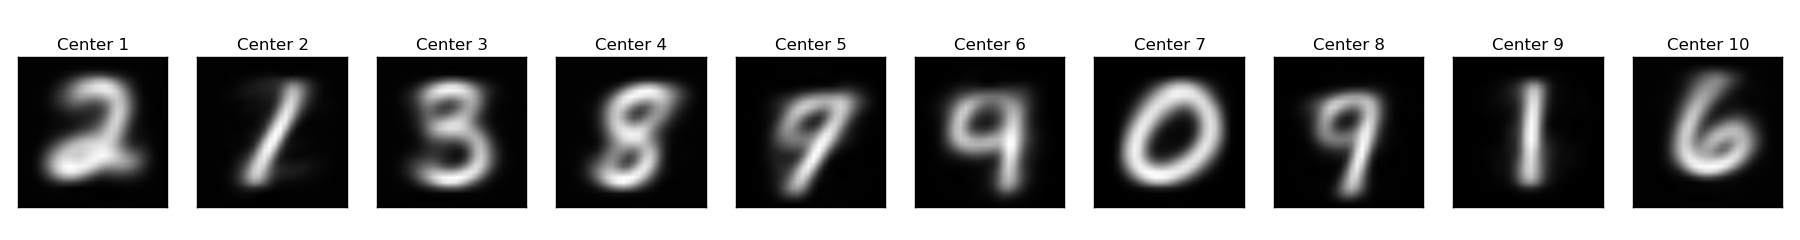
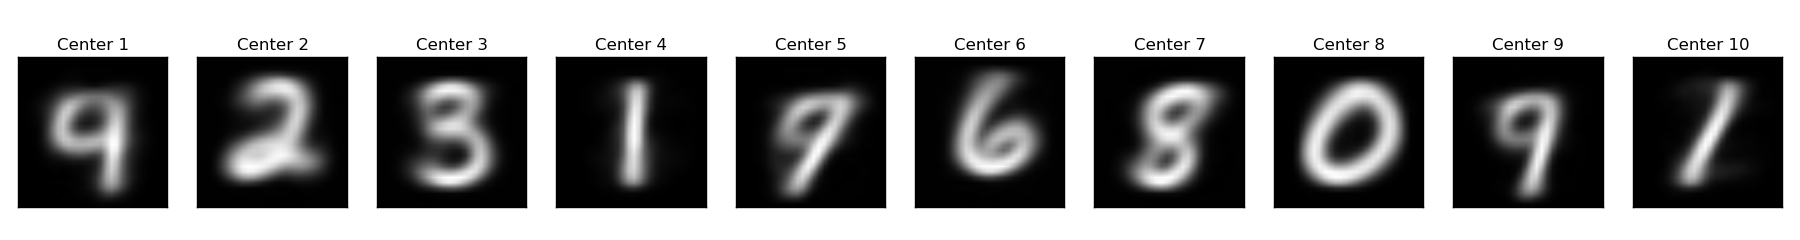
chore: simplify the 0.95 POV procedure

diff --git a/ex2.py b/ex2.py
@@ -175,7 +175,7 @@ def main():
     # - pca.fit(X)
     # - print('We need', pca.n_components_, 'dimensions to preserve 0.95 POV')
     # =======================================
-
+    '''
     n_components = 150
     pca = PCA(n_components=n_components).fit(X)
     
@@ -242,7 +242,10 @@ def main():
     n_components = dimen_idx # i.e. 84 here
     pca = PCA(n_components=n_components).fit(X)
     X_pca = pca.transform(X)
+    '''
 
+    pca = PCA(n_components=0.95).fit(X)
+    X_pca = pca.transform(X)
 
     # Clustering
     range_n_clusters = [8, 9, 10, 11, 12]
